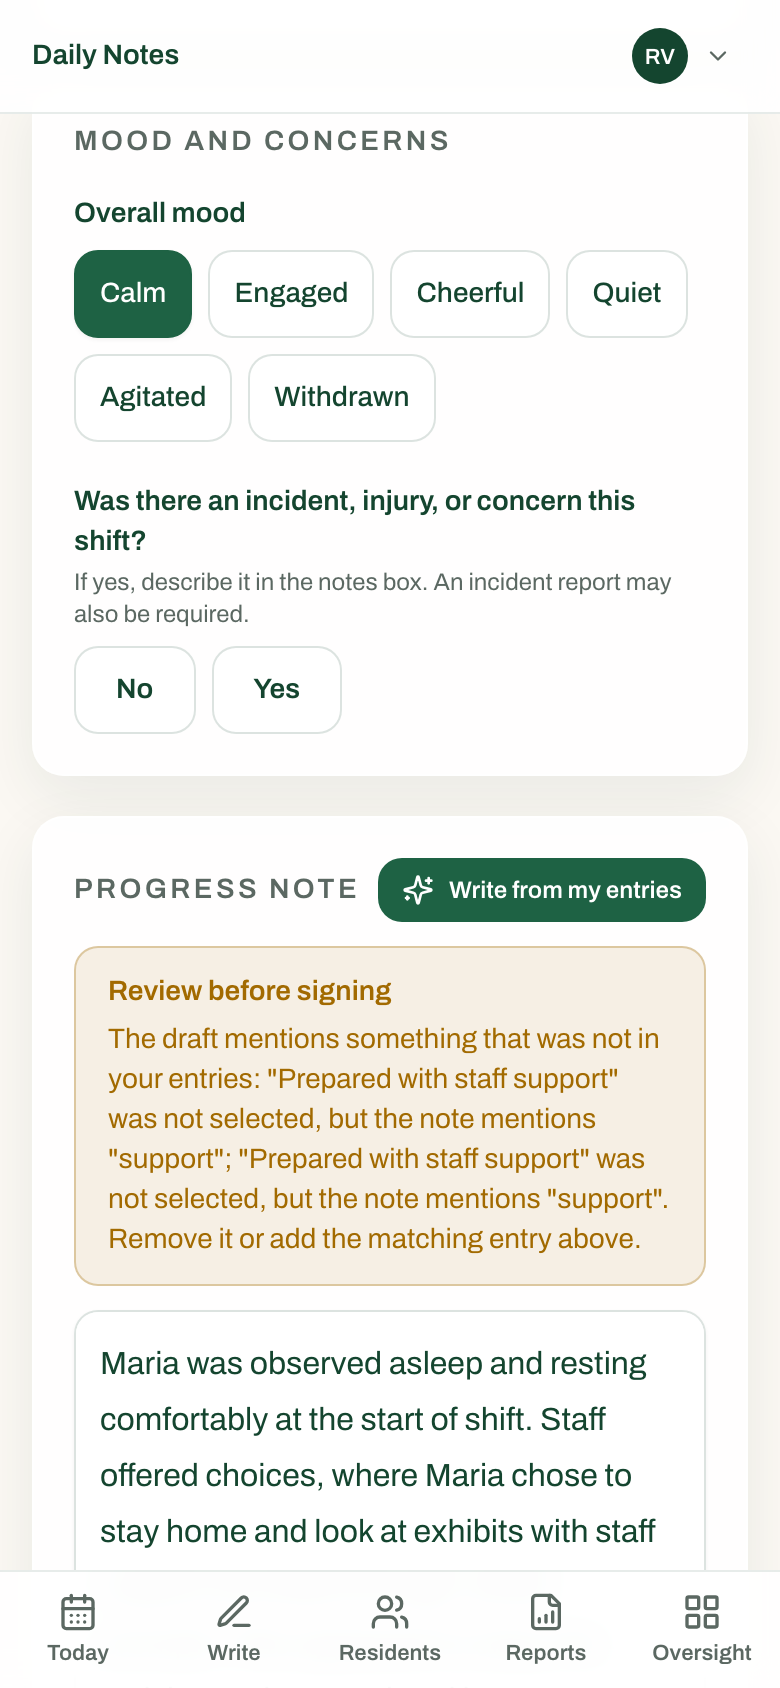
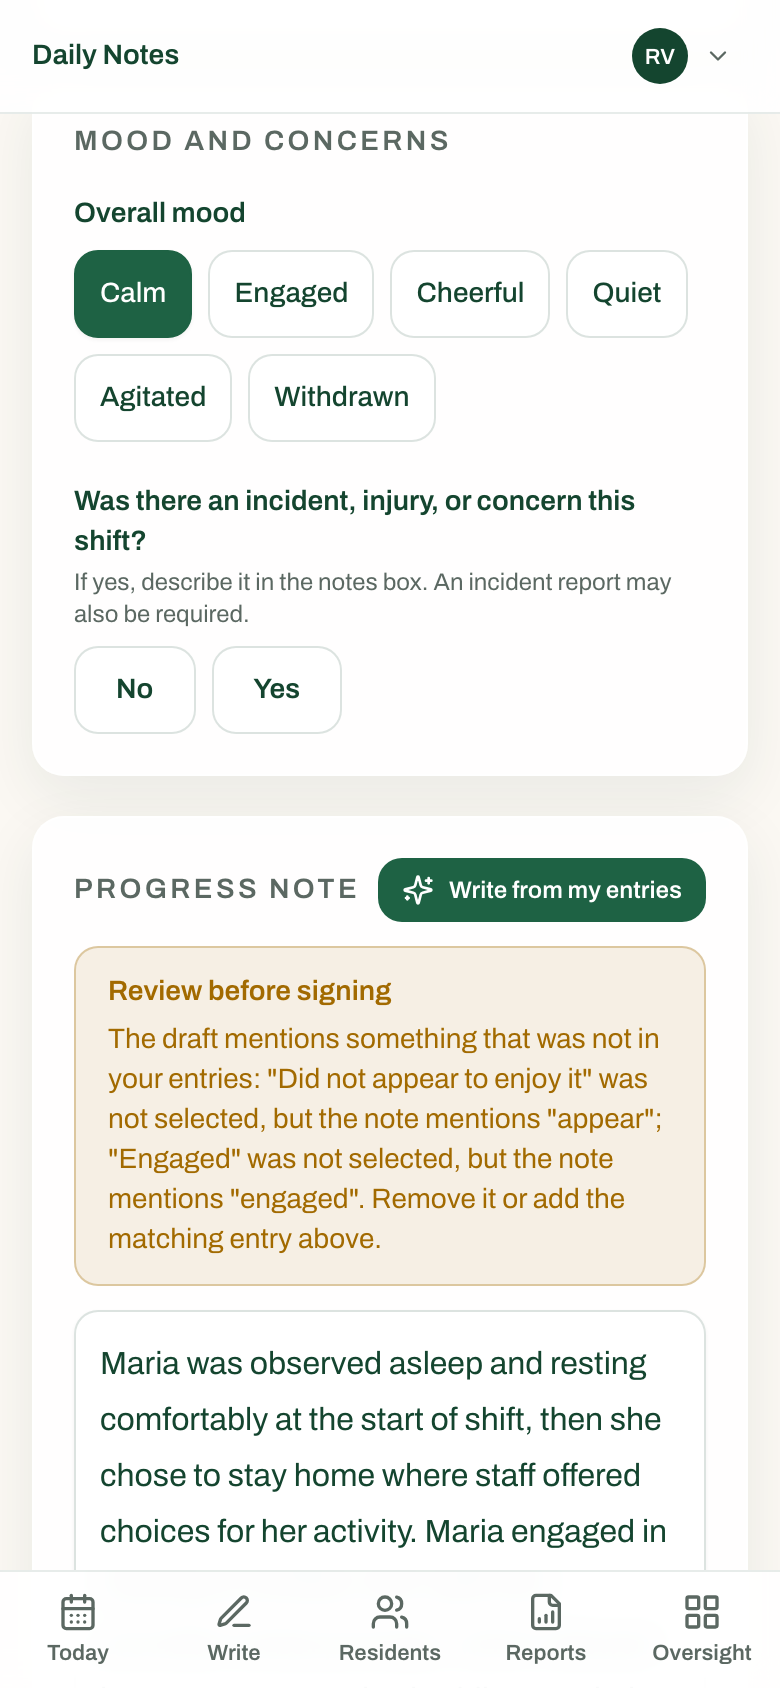
Ship the script face the typed signature was only hoping for

Changed region(s): [[0.1231, 0.6161, 0.8308, 0.7393], [0.1231, 0.8318, 0.8615, 0.9242]]

diff --git a/components/form/SignaturePad.tsx b/components/form/SignaturePad.tsx
@@ -150,30 +150,80 @@ export function SignaturePad({
       return;
     }
 
-    // Render on a fresh offscreen canvas rather than reusing the drawing one,
-    // so switching modes never mixes ink from both.
-    const canvas = document.createElement('canvas');
-    const ratio = window.devicePixelRatio || 1;
-    canvas.width = MAX_WIDTH * ratio;
-    canvas.height = MAX_HEIGHT * ratio;
+    let cancelled = false;
 
-    const ctx = canvas.getContext('2d');
-    if (!ctx) return;
-    ctx.scale(ratio, ratio);
-    ctx.fillStyle = '#0f2d45';
-    ctx.textBaseline = 'middle';
+    void (async () => {
+      // The shipped script face, resolved from the variable next/font sets on
+      // <html>. Canvas takes a font string, not a class, so the family has to
+      // be read out rather than applied.
+      const resolved = getComputedStyle(document.documentElement)
+        .getPropertyValue('--font-fb-signature')
+        .trim();
+      const family = resolved ? `${resolved}, ${SCRIPT_STACK}` : SCRIPT_STACK;
 
-    // Shrink to fit rather than clipping — a long name must not run off the
-    // edge of the signature block on the printed form.
-    let size = 54;
-    do {
-      ctx.font = `italic ${size}px ${SCRIPT_STACK}`;
-      if (ctx.measureText(value).width <= MAX_WIDTH - 32) break;
-      size -= 2;
-    } while (size > 18);
+      // Canvas does not wait for webfonts: draw before the face has loaded and
+      // it silently renders the fallback, with no error and no second attempt.
+      try {
+        await document.fonts.load(`54px ${family}`, value);
+        await document.fonts.ready;
+      } catch {
+        // Carry on with whatever is available rather than leaving them unable
+        // to sign.
+      }
+      if (cancelled) return;
 
-    ctx.fillText(value, 16, MAX_HEIGHT / 2);
-    onChange(canvas.toDataURL('image/png'), 'typed');
+      // Render on a fresh offscreen canvas rather than reusing the drawing one,
+      // so switching modes never mixes ink from both.
+      const canvas = document.createElement('canvas');
+      const ratio = window.devicePixelRatio || 1;
+      const ctx = canvas.getContext('2d');
+      if (!ctx) return;
+
+      // Shrink to fit rather than clipping — a long name must not run off the
+      // edge of the signature block on the printed form.
+      let size = 54;
+      do {
+        ctx.font = `${size}px ${family}`;
+        if (ctx.measureText(value).width <= MAX_WIDTH - 32) break;
+        size -= 2;
+      } while (size > 18);
+
+      /*
+       * Crop the image to the ink.
+       *
+       * This used to draw into the full 720x200 pad. A short name inks maybe
+       * 280x60 of that, and the PDF places the result with objectFit:'contain'
+       * inside a 150x42 box — so the scale was driven by the empty canvas, not
+       * the name. The signature came out around a third of its intended size
+       * and floated in the middle of its box, clear of the line it was meant to
+       * sit on. Fitting the bitmap to the glyphs fixes the size and the
+       * position together, because the box then contains nothing but signature.
+       */
+      const m = ctx.measureText(value);
+      const ascent = m.actualBoundingBoxAscent || size * 0.75;
+      const descent = m.actualBoundingBoxDescent || size * 0.3;
+      const padX = Math.round(size * 0.12);
+      const padY = Math.round(size * 0.08);
+
+      const w = Math.ceil(m.width + padX * 2);
+      const h = Math.ceil(ascent + descent + padY * 2);
+
+      canvas.width = w * ratio;
+      canvas.height = h * ratio;
+
+      // Sizing the canvas resets the context, so everything is set again here.
+      ctx.scale(ratio, ratio);
+      ctx.fillStyle = '#0f2d45';
+      ctx.textBaseline = 'alphabetic';
+      ctx.font = `${size}px ${family}`;
+      ctx.fillText(value, padX, padY + ascent);
+
+      onChange(canvas.toDataURL('image/png'), 'typed');
+    })();
+
+    return () => {
+      cancelled = true;
+    };
     // onChange identity changes on every parent render; depending on it would
     // re-render the signature in a loop.
     // eslint-disable-next-line react-hooks/exhaustive-deps
@@ -332,8 +382,8 @@ export function SignaturePad({
           <div className="relative mt-3 flex h-36 items-center rounded-xl border border-brand-navy/15 bg-white px-6">
             {typed.trim() ? (
               <span
-                className="truncate text-4xl text-brand-navy"
-                style={{ fontFamily: SCRIPT_STACK, fontStyle: 'italic' }}
+                className="truncate text-5xl leading-[1.4] text-brand-navy"
+                style={{ fontFamily: `var(--font-fb-signature), ${SCRIPT_STACK}` }}
               >
                 {typed}
               </span>

diff --git a/scripts/capture-walkthrough.ts b/scripts/capture-walkthrough.ts
@@ -164,12 +164,8 @@ async function main() {
   await settle(page);
   await shot(page, '03-draft-writes-itself');
 
-  console.log('· 04 sign on the glass');
-  const canvas = page.locator('canvas').first();
-  await canvas.scrollIntoViewIfNeeded();
-  await page.evaluate(() => window.scrollBy(0, -30));
-  await settle(page);
-  await sign(page, canvas);
+  console.log('· 04 sign');
+  await signTyped(page);
 
   await page.getByRole('checkbox').last().check();
   // Bring "Sign and lock note" into the frame — a signing screen that stops
@@ -211,6 +207,33 @@ async function main() {
  * Amplitudes and spacing vary, and the curve is walked in small steps so the
  * pad's smoothing has something to work with.
  */
+/**
+ * Sign by typing the name, the way the product's own "Type" mode works.
+ *
+ * Earlier revisions drove the drawing canvas with a synthesised stroke. Even
+ * done well that is a machine imitating handwriting, and it looked like one.
+ * The app already offers a typed signature rendered in a script face, which is
+ * both what e-signature products do and what a DSP on a phone would actually
+ * pick — so the honest capture is to use it.
+ */
+async function signTyped(page: Page) {
+  await page.getByRole('button', { name: /^type$/i }).click();
+
+  const field = page.getByPlaceholder(/type your full name/i);
+  await field.scrollIntoViewIfNeeded();
+  await field.fill('');
+  // Typed rather than filled, so the debounced canvas render runs as it would
+  // for a person.
+  await field.pressSequentially('Robin Vance', { delay: 45 });
+
+  // The canvas render waits on the webfont; give it the same chance.
+  await page.evaluate(() => document.fonts.ready);
+  await page.waitForTimeout(600);
+
+  await page.evaluate(() => window.scrollBy(0, -40));
+  await settle(page);
+}
+
 async function sign(page: Page, canvas: ReturnType<Page['locator']>) {
   const box = await canvas.boundingBox();
   if (!box) throw new Error('no signature canvas');

diff --git a/lib/fonts.ts b/lib/fonts.ts
@@ -1,4 +1,4 @@
-import { Archivo } from 'next/font/google';
+import { Archivo, Allura } from 'next/font/google';
 
 /**
  * FlipBrief's typeface. There is one, and this is it.
@@ -26,4 +26,26 @@ export const appFont = Archivo({
   display: 'swap',
   variable: '--font-fb-text',
   axes: ['wdth']
+});
+
+/**
+ * The face a typed signature is drawn in.
+ *
+ * This has to be shipped rather than named. The typed signature was asking for
+ * "Snell Roundhand", "Segoe Script", "Bradley Hand" and finally generic
+ * `cursive` — a stack in which a Mac, a Windows machine and an Android phone
+ * each resolve to something different, and most Android devices have no script
+ * face at all. The same person signing the same name got a different mark
+ * depending on the device in their hand, which is not a defensible property for
+ * the thing standing in for their signature on a Medicaid record.
+ *
+ * Allura is a formal upright-ish script with connected letterforms, and it is
+ * legible at the size a signature block allows. Loaded here so every device
+ * renders one identical mark.
+ */
+export const signatureFont = Allura({
+  subsets: ['latin'],
+  weight: '400',
+  display: 'swap',
+  variable: '--font-fb-signature'
 });

diff --git a/app/layout.tsx b/app/layout.tsx
@@ -2,7 +2,7 @@ import type { Metadata, Viewport } from 'next';
 import './globals.css';
 import { loadBrand } from '@/lib/branding/load';
 import { brandCssVariables } from '@/lib/branding/theme';
-import { appFont } from '@/lib/fonts';
+import { appFont, signatureFont } from '@/lib/fonts';
 import { ServiceWorkerBridge } from '@/components/service-worker';
 
 export const metadata: Metadata = {
@@ -41,7 +41,7 @@ export default async function RootLayout({ children }: { children: React.ReactNo
   return (
     // The typeface variable is set on <html>, not on a page wrapper, so one
     // font serves the public landing page and the signed-in app both.
-    <html lang="en" className={appFont.variable}>
+    <html lang="en" className={`${appFont.variable} ${signatureFont.variable}`}>
       <head>
         <style
           // Values are validated as hex literals in parseBranding, so they
